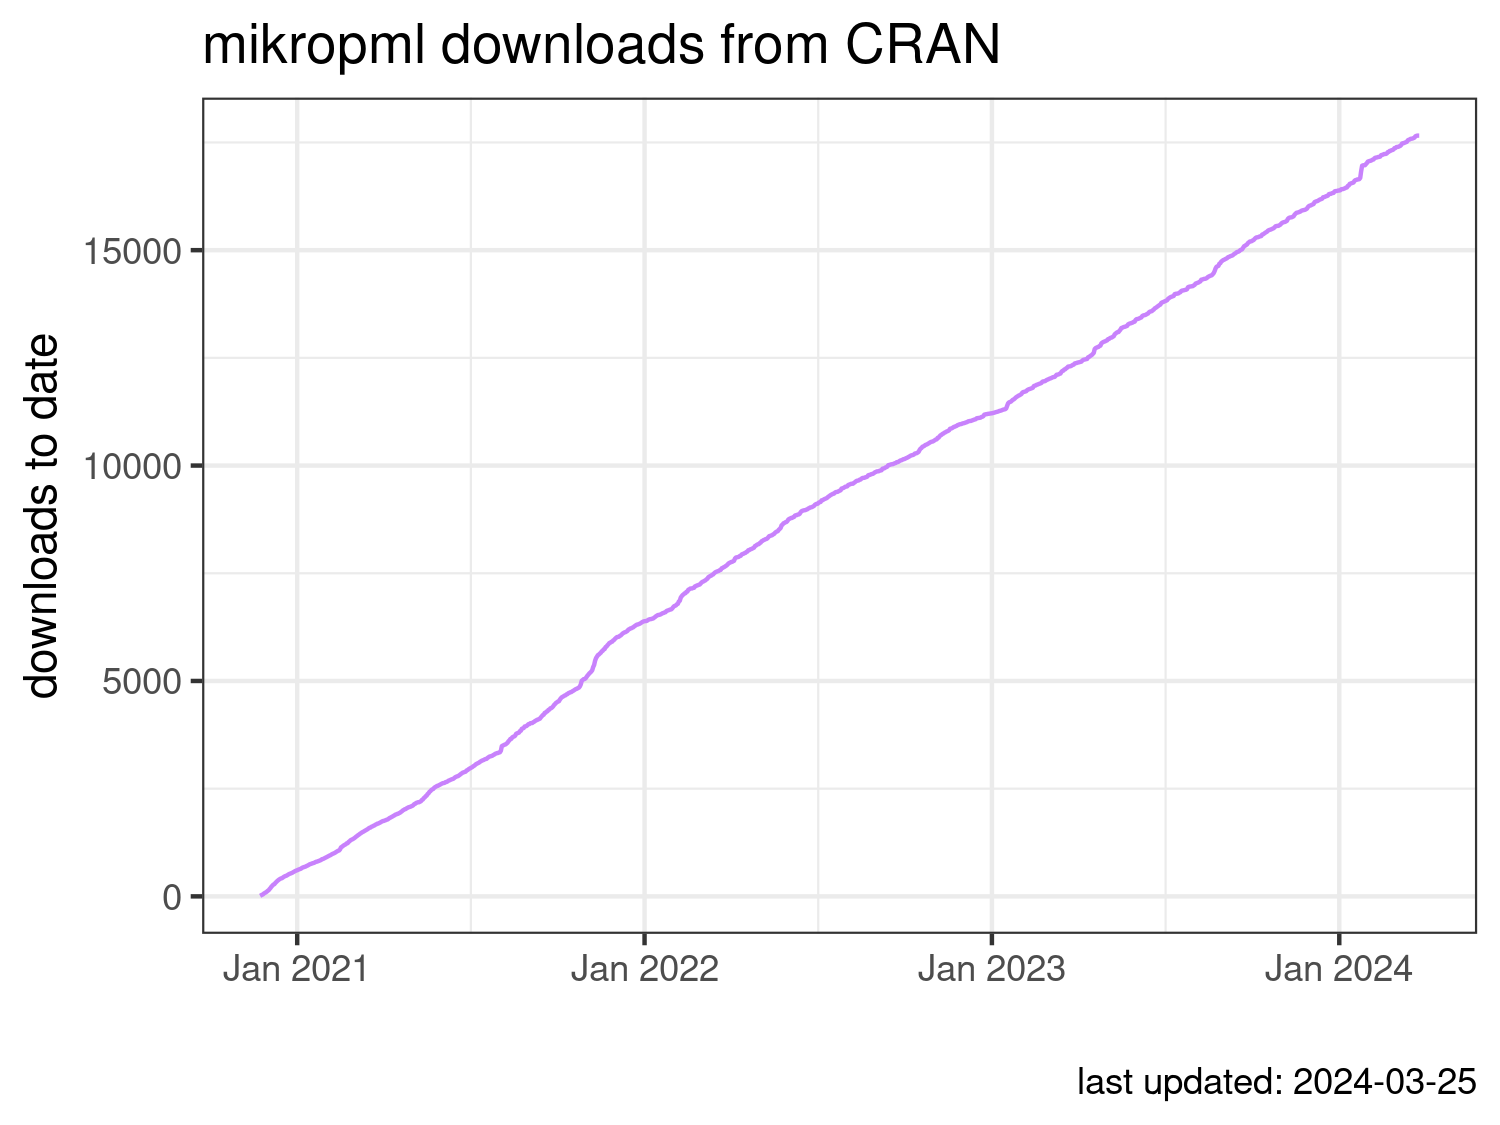
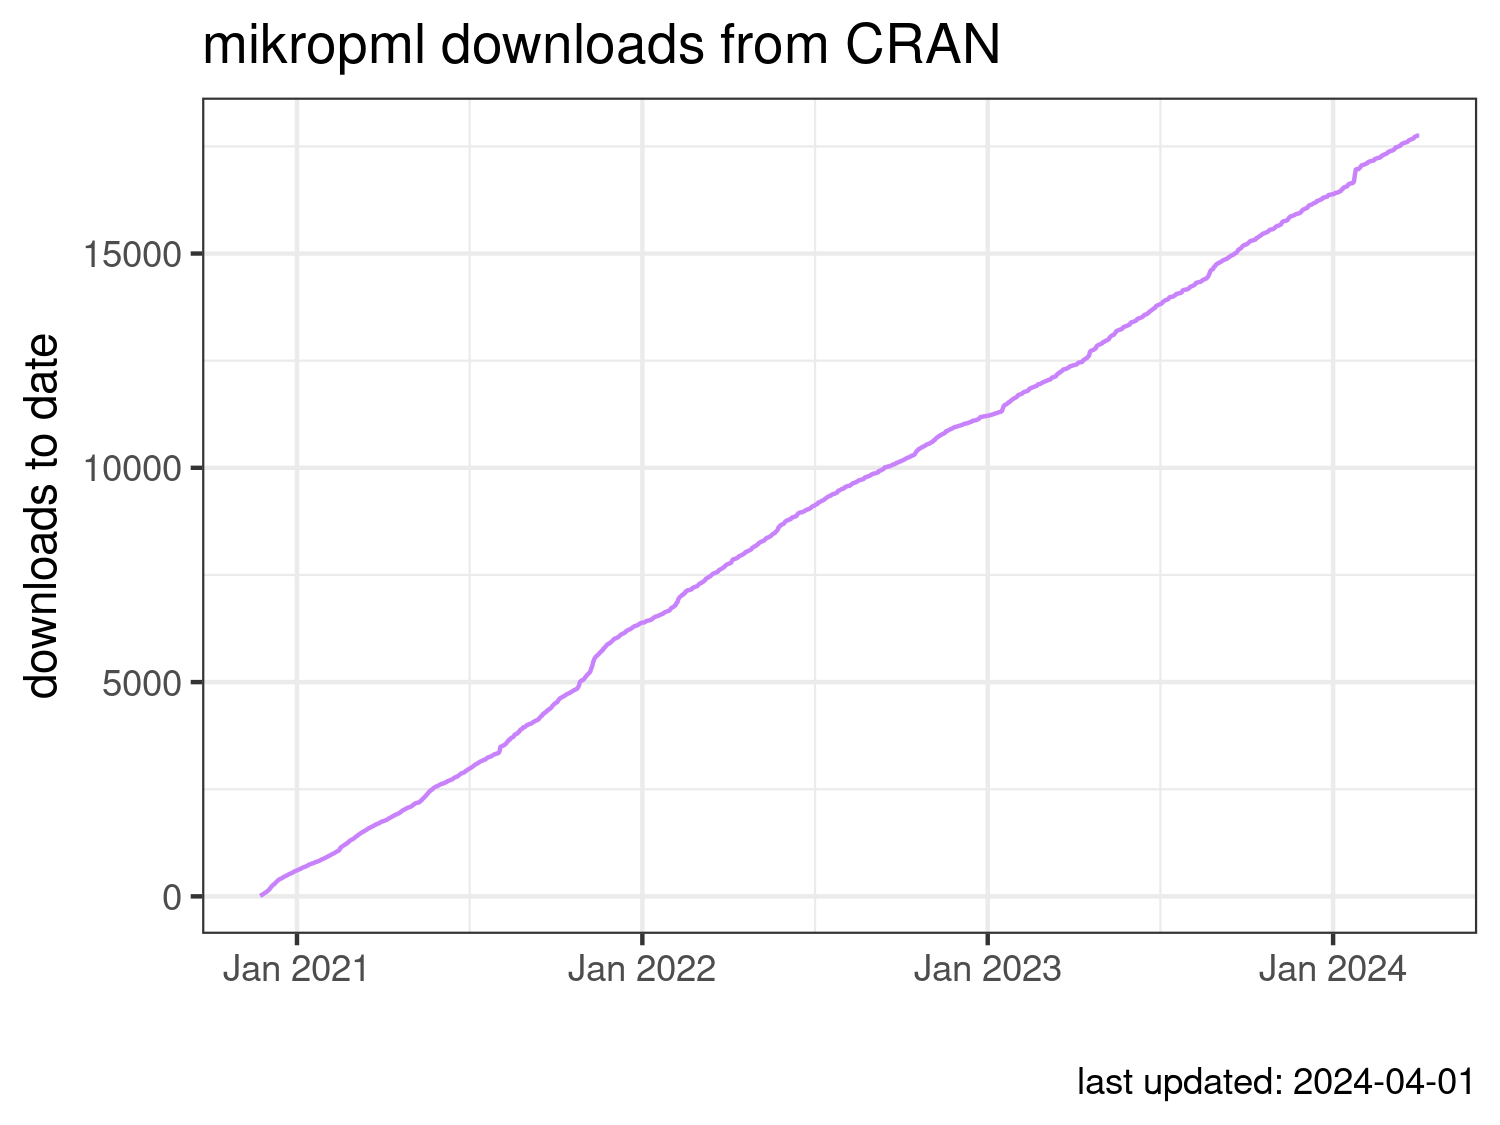
Re-build Rmarkdown files

diff --git a/README.md b/README.md
@@ -29,12 +29,12 @@ downloads <- cran_downloads(package = "mikropml",
 write_csv(downloads, here::here('data', 'downloads.csv'))
 tail(downloads)
 #>            date count  package cum_count
-#> 1214 2024-03-20    11 mikropml     17612
-#> 1215 2024-03-21    30 mikropml     17642
-#> 1216 2024-03-22    10 mikropml     17652
-#> 1217 2024-03-23     7 mikropml     17659
-#> 1218 2024-03-24     0 mikropml     17659
-#> 1219 2024-03-25     0 mikropml     17659
+#> 1221 2024-03-27    34 mikropml     17719
+#> 1222 2024-03-28    11 mikropml     17730
+#> 1223 2024-03-29     9 mikropml     17739
+#> 1224 2024-03-30    13 mikropml     17752
+#> 1225 2024-03-31     0 mikropml     17752
+#> 1226 2024-04-01     0 mikropml     17752
 ```
 
 ## Get the badge
